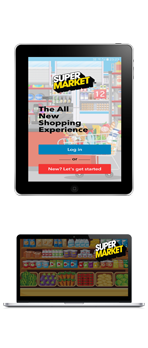
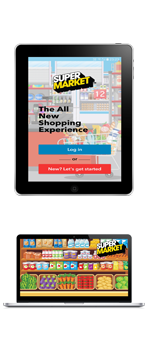
resized fonts

Changed region(s): [[0.1351, 0.6897, 0.8649, 0.8621]]

diff --git a/css/alliance.css b/css/alliance.css
@@ -467,7 +467,7 @@ h1{
   text-align: left;
   overflow-y:auto;
   color: #fff;
-  font-size: 1.3vw;
+  font-size: 1.4vw;
   padding: 0 5vw;
   top:0;
   line-height: 1.65;
@@ -747,7 +747,7 @@ margin-top:5%;
 
 .features-item-header {
   margin-bottom: 0;
-  font-size: 1.4rem;
+  font-size: 1.5rem;
   font-family:ifont;
 }
 

diff --git a/css/broca.css b/css/broca.css
@@ -468,7 +468,7 @@ h1{
   text-align: left;
   overflow-y:auto;
   color: #fff;
-  font-size: 1.3vw;
+  font-size: 1.4vw;
   padding: 0 5vw;
   top:0;
   line-height: 1.65;
@@ -747,7 +747,7 @@ margin-top:5%;
 
 .features-item-header {
   margin-bottom: 0;
-  font-size: 1.4rem;
+  font-size: 1.5rem;
   font-family:ifont;
 }
 

diff --git a/css/falah.css b/css/falah.css
@@ -467,7 +467,7 @@ h1{
   text-align: left;
   overflow-y:auto;
   color: #fff;
-  font-size: 1.3vw;
+  font-size: 1.4vw;
   padding: 0 5vw;
   top:0;
   line-height: 1.65;
@@ -746,7 +746,7 @@ margin-top:5%;
 
 .features-item-header {
   margin-bottom: 0;
-  font-size: 1.4rem;
+  font-size: 1.5rem;
   font-family:ifont;
 }
 

diff --git a/css/gnw.css b/css/gnw.css
@@ -467,7 +467,7 @@ h1{
   text-align: left;
   overflow-y:auto;
   color: #fff;
-  font-size: 1.3vw;
+  font-size: 1.4vw;
   padding: 0 5vw;
   top:0;
   line-height: 1.65;
@@ -747,7 +747,7 @@ margin-top:5%;
 
 .features-item-header {
   margin-bottom: 0;
-  font-size: 1.4rem;
+  font-size: 1.5rem;
   font-family:ifont;
 }
 

diff --git a/css/hart.css b/css/hart.css
@@ -467,7 +467,7 @@ h1{
   text-align: left;
   overflow-y:auto;
   color: #fff;
-  font-size: 1.3vw;
+  font-size: 1.4vw;
   padding: 0 5vw;
   top:0;
   line-height: 1.65;
@@ -746,7 +746,7 @@ margin-top:5%;
 
 .features-item-header {
   margin-bottom: 0;
-  font-size: 1.4rem;
+  font-size: 1.5rem;
   font-family:ifont;
 }
 

diff --git a/css/pk.css b/css/pk.css
@@ -467,7 +467,7 @@ h1{
   text-align: left;
   overflow-y:auto;
   color: #fff;
-  font-size: 1.3vw;
+  font-size: 1.4vw;
   padding: 0 5vw;
   top:0;
   line-height: 1.65;
@@ -746,7 +746,7 @@ margin-top:5%;
 
 .features-item-header {
   margin-bottom: 0;
-  font-size: 1.4rem;
+  font-size: 1.5rem;
   font-family:ifont;
 }
 

diff --git a/css/supermarket.css b/css/supermarket.css
@@ -465,7 +465,7 @@ h1{
   text-align: left;
   overflow-y:auto;
   color: #fff;
-  font-size: 1.3vw;
+  font-size: 1.4vw;
   padding: 0 5vw;
   top:0;
   line-height: 1.65;
@@ -745,7 +745,7 @@ margin-top:5%;
 
 .features-item-header {
   margin-bottom: 0;
-  font-size: 1.4rem;
+  font-size: 1.5rem;
   font-family:ifont;
 }
 
